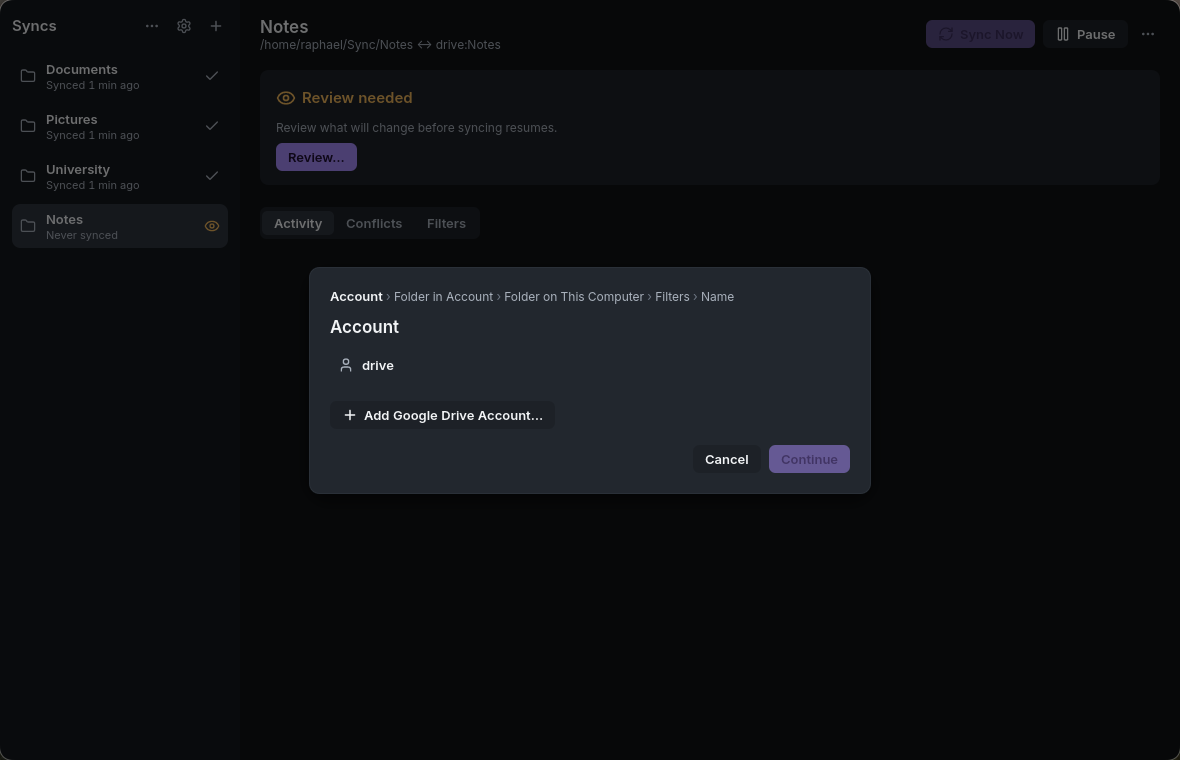
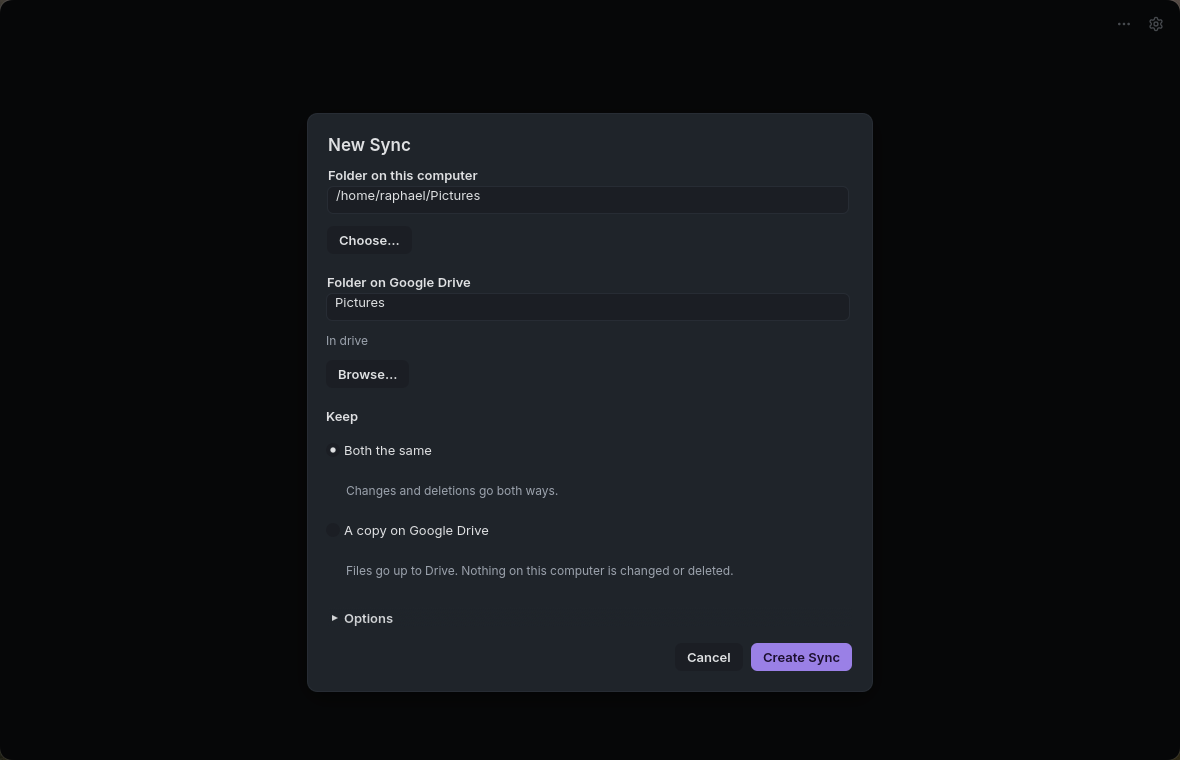
docs: atualiza o print da nova sync no README

diff --git a/README.md b/README.md
@@ -43,7 +43,7 @@ flatpak run io.github.raphael_soares.syncfast
 4. Review the first sync. After you confirm it, syncfast keeps both sides equal by itself.
 
 <p align="center">
-  <img src="assets/screenshot-add-sync.png" alt="Adding a sync: account, folder on Drive, folder on this computer, filters and name" width="45%">
+  <img src="assets/screenshot-add-sync.png" alt="New Sync: folder on this computer, folder on Google Drive and what to keep" width="45%">
   <img src="assets/screenshot-review.png" alt="A new sync waiting for the review of its first round" width="45%">
 </p>
 
